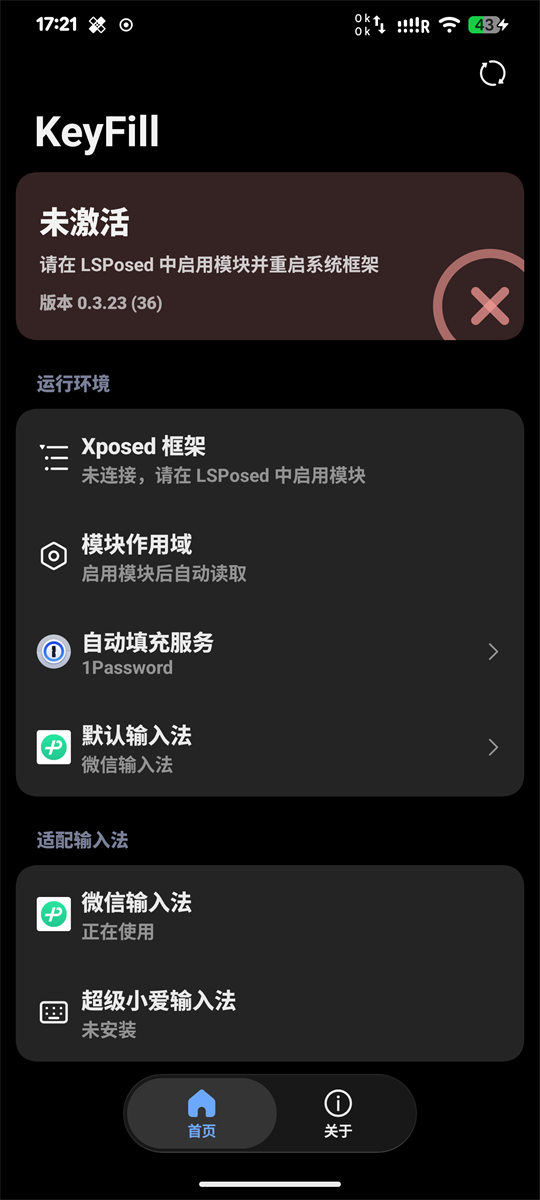
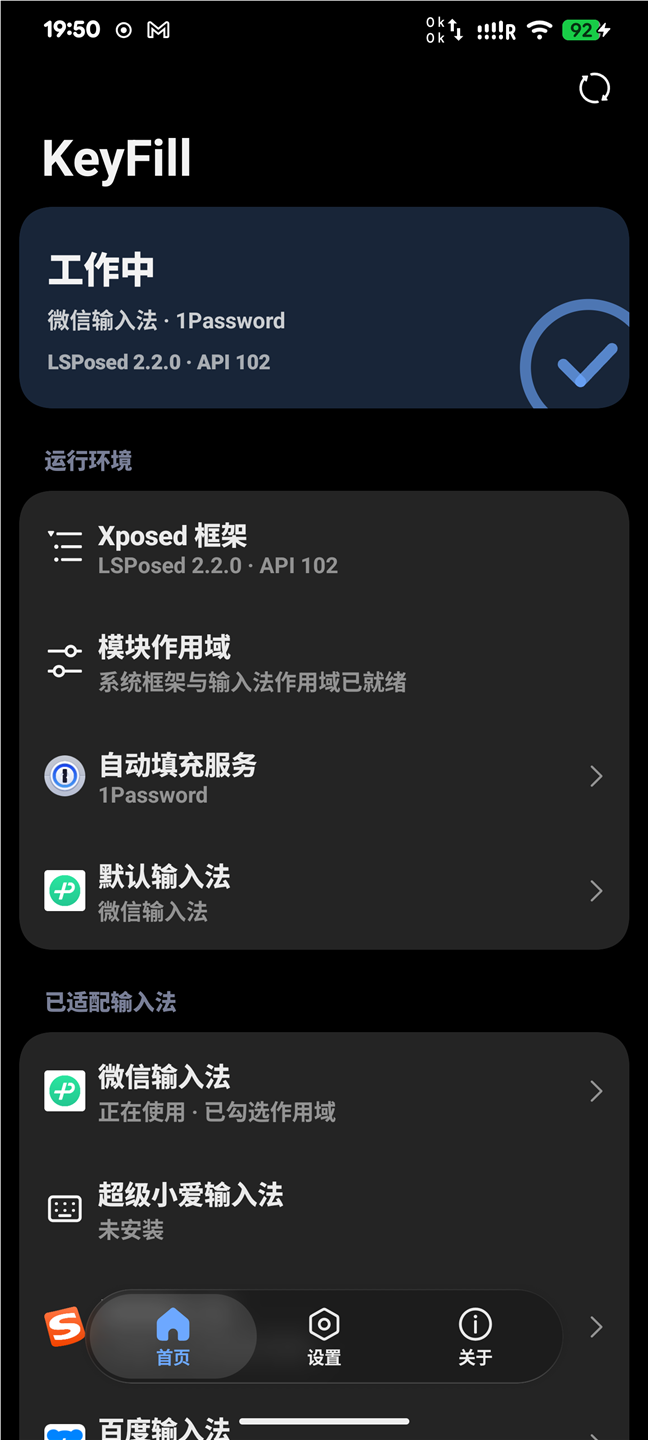
docs: refresh README, real-device screenshots, and promotional graphics

diff --git a/README.md b/README.md
@@ -1,11 +1,12 @@
 <div align="center">
-  <img src="docs/logo.svg" width="108" height="108" alt="KeyFill Logo" />
-  <h1>KeyFill</h1>
-  <p><strong>为第三方 Android 输入法接入原生键盘内联自动填充建议</strong></p>
+  <img src="docs/banner.png" width="100%" alt="KeyFill Banner" />
+  <br />
+  <br />
   <p>
     <a href="https://github.com/zrmugua/keyfill/actions/workflows/build.yml"><img src="https://github.com/zrmugua/keyfill/actions/workflows/build.yml/badge.svg" alt="Build" /></a>
-    <img src="https://img.shields.io/badge/Android-13%2B%20(API%2033)-1B5EF2" alt="Android 13+" />
+    <img src="https://img.shields.io/badge/Android-13--17%20(API%2033%2B)-1B5EF2" alt="Android 13-17" />
     <img src="https://img.shields.io/badge/Xposed-libxposed%20API%20102-3B82F6" alt="libxposed API 102" />
+    <img src="https://img.shields.io/badge/UI-Miuix%20OS4%20Liquid%20Glass-6366F1" alt="Miuix OS4" />
     <a href="https://www.coolapk.com/u/9898174"><img src="https://img.shields.io/badge/Coolapk-%40%E6%9C%A8%E7%93%9C-11B981" alt="Coolapk" /></a>
     <a href="LICENSE"><img src="https://img.shields.io/badge/License-Apache%202.0-64748B" alt="License" /></a>
   </p>
@@ -15,41 +16,69 @@
 
 ## 简介
 
-默认情况下，Android 的键盘内联自动填充（Inline Autofill Suggestions）在许多第三方输入法中未被启用或未接入渲染通道，导致 **1Password**、**Bitwarden**、**Google 密码管理工具** 等密码管理器只能退化为悬浮弹窗，无法在键盘顶部候选栏内直接点选填充。
+默认情况下，Android 的键盘内联自动填充（Inline Autofill Suggestions）在许多第三方输入法中未被启用或未接入渲染通道，导致 **1Password**、**Bitwarden**、**KeePassDX**、**Google 密码管理工具** 等密码管理器只能退化为悬浮弹窗，无法在键盘顶部候选栏内直接点选填充。
 
-**KeyFill** 是一个基于现代 **libxposed API 102** 的 LSPosed 模块，采用可扩展的 `KeyboardTarget` 适配架构，在不破坏输入法原有视觉体验的前提下为第三方输入法补齐键盘内联自动填充能力（目前已适配**微信输入法**、**超级小爱输入法**、**搜狗输入法**、**百度输入法**、**讯飞输入法**与**豆包输入法**）。
+**KeyFill** 是一个基于现代 **libxposed API 102** 的 LSPosed 模块，采用可扩展的 `KeyboardTarget` 与 `ImeToolbar` 适配架构，在不破坏输入法原有视觉体验与手感的前提下，为第三方输入法补齐原生键盘内联自动填充能力（目前已深度适配**微信输入法**、**超级小爱输入法**、**搜狗输入法**、**百度输入法**、**讯飞输入法**与**豆包输入法**）。
+
+## 实机效果一览
+
+<div align="center">
+  <img src="docs/promo-keyboards.png" width="100%" alt="6 大主流输入法实机内联自动填充效果" />
+</div>
 
 ## 功能特性
 
-- **原生内联建议接入**：在系统框架与目标输入法进程建立完整的 `InlineSuggestionsRequest` / `InlineSuggestionsResponse` 通道，支持 1Password、Bitwarden 等标准 Android 自动填充服务。
-- **输入法原生视觉融合**：
+- **原生内联建议接入**：在系统框架与目标输入法进程建立完整的 `InlineSuggestionsRequest` / `InlineSuggestionsResponse` 通道，支持 1Password、Bitwarden 等所有遵循 Android Autofill Inline API 的自动填充服务，并对 `1:1` 置顶图标与多条横向滑动建议做自适应排版。
+- **6 大输入法原生视觉融合**：
   - **微信输入法（`com.tencent.wetype`）**：保留左侧原生图标，复用原生候选栏外框，单条居中撑满、多条横向滑动并通过 `SurfaceControl` 精准裁切，打字与展开面板时自动避让。
   - **超级小爱输入法（`com.xiaomi.type`）**：对齐工具栏高度与右侧入口，兼容 HyperOS 实时模糊背板挖空融合，输入候选词时自动隐藏不抢占空间。
   - **搜狗输入法（`com.sohu.inputmethod.sogou`）**：精准识别左侧固定 Logo 边界并裁切闲置工具图标，透明融入各类自定义皮肤与双行拼音布局，展开工具箱或候选词时即时避让。
-  - **百度输入法（`com.baidu.input`）**：通过 `Canvas` 绘制级裁切无痕保留左侧原生 du 图标与完整皮肤底图，支持默认、夜间及自定义动态皮肤对比度自适应。
-  - **讯飞输入法（`com.iflytek.inputmethod`）**：同时适配 `CandidateNext` 与 `SmartLine` 双模式顶栏及 `FIGI` 主题服务，保留原生讯飞 / 飞飞助手入口并自适应皮肤明暗，输入、联想、语音及展开面板时自动隐藏。
+  - **百度输入法（`com.baidu.input`）**：通过 `Canvas` 绘制级裁切无痕保留左侧原生 `du` 图标与完整皮肤底图，支持默认、夜间及自定义动态皮肤对比度自适应。
+  - **讯飞输入法（`com.iflytek.inputmethod`）**：全面适配 `CandidateNext`、`SmartLine` 与经典 `InputGridRootView` 三模式顶栏及 `FIGI` 主题服务，保留原生讯飞 / 飞飞助手入口并自适应皮肤明暗，输入、联想词、手写及展开面板（`ImeFragmentShow`）时自动避让。
   - **豆包输入法（`com.bytedance.android.doubaoime`）**：保留左侧原生豆包工具箱入口，胶囊样式对齐原生浅色、深色与透明毛玻璃皮肤，切换子面板或悬浮键盘时联动隐藏 `SurfaceControl`。
-- **深浅色与自定义皮肤同步**：同时兼容系统深色 / 浅色模式动态重绘与输入法独立皮肤明暗检测，确保内联建议文字始终清晰可读。
-- **HyperOS 风格管理界面**：基于 **Miuix** 与液态玻璃底栏构建，接入 `libxposed:service` 实时检测模块激活状态、已注入进程状态，支持一键弹窗申请缺失的 LSPosed 作用域，以及快捷跳转系统自动填充与输入法设置。
+- **深浅色与自定义皮肤同步**：同时兼容系统深色 / 浅色模式动态重绘与输入法独立皮肤明暗检测，确保内联建议胶囊与文字始终清晰可读。
+- **Miuix OS4 液态玻璃管理端**：
+  - 接入 `libxposed:service` 实时检测模块激活状态、框架版本、已注入进程及作用域就绪状态，支持一键弹窗申请缺失作用域与快捷跳转系统自动填充 / 输入法设置。
+  - 支持**主题模式**（跟随系统 / 浅色 / 深色）、**动态取色**（跟随系统壁纸 Monet 配色、15 套精选预设色与自定义调色盘）以及**隐藏桌面图标**。
+  - 内置**自动填充测试**液态玻璃弹窗，无需切换外部应用即可直接模拟账号 / 密码输入框验证键盘内联建议条。
+  - 采用定制 AGSL 极光着色器打造 HyperOS 风格「关于」页与设备硬件卡片。
 
-## 界面预览
+## 管理端预览
 
-| 首页（深色） | 关于页（深色） | 首页（浅色） | 关于页（浅色） |
-| :---: | :---: | :---: | :---: |
-| <img src="docs/home-dark.png" width="200" alt="Home Dark" /> | <img src="docs/about-dark.png" width="200" alt="About Dark" /> | <img src="docs/home-light.png" width="200" alt="Home Light" /> | <img src="docs/about-light.png" width="200" alt="About Light" /> |
+<div align="center">
+  <img src="docs/promo-manager.png" width="100%" alt="KeyFill Miuix OS4 液态玻璃管理端" />
+</div>
+
+<details>
+<summary>展开查看全部单页实机截图（深色 / 浅色）</summary>
+
+<br />
+
+| 首页（深色） | 设置（深色） | 关于（深色） |
+| :---: | :---: | :---: |
+| <img src="docs/home-dark.png" width="220" alt="Home Dark" /> | <img src="docs/settings-dark.png" width="220" alt="Settings Dark" /> | <img src="docs/about-dark.png" width="220" alt="About Dark" /> |
+
+| 首页（浅色） | 设置（浅色） | 关于（浅色） |
+| :---: | :---: | :---: |
+| <img src="docs/home-light.png" width="220" alt="Home Light" /> | <img src="docs/settings-light.png" width="220" alt="Settings Light" /> | <img src="docs/about-light.png" width="220" alt="About Light" /> |
+
+</details>
 
 ## 环境要求与支持列表
 
-- **系统版本**：Android 13+（API 33+，兼容 HyperOS 1 / 2 / 3 及原生 AOSP）
+- **系统版本**：Android 13 – 17（API 33+，兼容 HyperOS 1 / 2 / 3 / 4 及原生 AOSP）
 - **Xposed 框架**：支持 **libxposed API 102** 的现代框架（如新版 LSPosed）
-- **适配输入法**：
-  - 微信输入法（`com.tencent.wetype`）
-  - 超级小爱输入法（`com.xiaomi.type`）
-  - 搜狗输入法（`com.sohu.inputmethod.sogou`）
-  - 百度输入法（`com.baidu.input`）
-  - 讯飞输入法（`com.iflytek.inputmethod`）
-  - 豆包输入法（`com.bytedance.android.doubaoime`）
-- **适配密码管理器**：1Password、Bitwarden、KeePassDX、Proton Pass 等所有遵循 Android Autofill Inline API 的自动填充服务
+- **适配密码管理器**：1Password、Bitwarden、KeePassDX、Proton Pass、Google 密码管理工具等所有遵循 Android Autofill Inline API 的自动填充服务
+- **已适配输入法**：
+
+| 输入法 | 包名 | 适配特性 |
+| :--- | :--- | :--- |
+| 微信输入法 | `com.tencent.wetype` | 原生候选栏复用 · `SurfaceControl` 精准裁切 |
+| 超级小爱输入法 | `com.xiaomi.type` | HyperOS 实时模糊背板融合 · 工具栏对齐 |
+| 搜狗输入法 | `com.sohu.inputmethod.sogou` | 左侧 Logo 边界识别 · 自定义皮肤与双行布局融合 |
+| 百度输入法 | `com.baidu.input` | `Canvas` 级皮肤裁切保留 `du` 标 · 动态明暗对比 |
+| 讯飞输入法 | `com.iflytek.inputmethod` | 经典 / 智慧栏三模式顶栏 · `FIGI` 主题与面板避让 |
+| 豆包输入法 | `com.bytedance.android.doubaoime` | 毛玻璃与深浅皮肤胶囊对齐 · 悬浮键盘联动 |
 
 ## 安装与配置步骤
 
@@ -57,32 +86,40 @@
 2. 打开 **LSPosed 管理器**，启用 **KeyFill** 模块，勾选以下作用域：
    - **系统框架**（`android`）—— **必选**（用于宣告输入法内联能力并同步深浅色远程渲染样式）
    - 你正在使用的已适配输入法（微信、超级小爱、搜狗、百度、讯飞或豆包输入法）
-   > 也可以只先在 LSPosed 中开启模块开关，随后打开 KeyFill 应用点击「模块作用域」一键弹窗申请所需作用域。
+   > 也可以先仅在 LSPosed 中开启模块开关，随后打开 KeyFill 首页点击「模块作用域」一键弹窗申请所需作用域。
 3. **重启系统**（或软重启系统框架）并确保目标输入法进程已重新加载。
-4. 在系统设置中确认已将自动填充服务设为你的密码管理器（如 1Password / Bitwarden），并将默认输入法切换为已适配的输入法；打开 **KeyFill** 首页看到 **「工作中」** 即表示全部就绪。
+4. 在系统设置中确认已将自动填充服务设为你的密码管理器（如 1Password / Bitwarden），并将默认输入法切换为已适配的输入法；打开 **KeyFill** 首页看到 **「工作中」** 即表示全部就绪，随后可在「设置 → 自动填充测试」中直接验证效果。
+
+> [!TIP]
+> 在 HyperOS 等深度定制系统上，若密码管理器偶发无法弹出自动填充建议，建议在系统省电策略中将密码管理器设为 **「无限制」** 并开启自启动，避免系统后台冻结自动填充服务进程。
 
 ## 本地构建
 
-请确保本地已安装 **JDK 21** 与 **Android SDK**，随后在项目根目录执行：
+请确保本地已安装 **JDK 17+**（或 Android Studio 内置 JBR）与 **Android SDK**，随后在项目根目录执行：
 
 ```bash
 # Linux / macOS
 ./gradlew assembleDebug lintDebug
+./gradlew assembleRelease
 
 # Windows PowerShell
 .\gradlew.bat assembleDebug lintDebug
+.\gradlew.bat assembleRelease
 ```
 
-构建产物位于 `app/build/outputs/apk/debug/app-debug.apk`。
+- Debug 产物位于 `app/build/outputs/apk/debug/app-debug.apk`
+- Release（R8 混淆优化）产物位于 `app/build/outputs/apk/release/app-release.apk`
 
 ## 工作原理简述
 
 1. **`system_server` 能力开启与主题重绘**：
-   - `AutofillModule` 拦截 `InputMethodInfo` 构造过程，为目标输入法开启 `mInlineSuggestionsEnabled`。
-   - `InlineThemeRenderer` 在 `RemoteInlineSuggestionRenderService` 侧按当前系统深浅色切换 `InlinePresentationSpec` 样式束，并在主题变化时使旧 `RemoteInlineSuggestionUi` 缓存失效以触发实时重绘。
+   - `AutofillModule` 拦截 `InputMethodInfo` 构造过程，为 `KeyboardTarget` 中登记的目标输入法开启 `mInlineSuggestionsEnabled`。
+   - `InlineThemeRenderer` 在 `RemoteInlineSuggestionRenderService` 侧按当前系统与皮肤明暗切换 `InlinePresentationSpec` 样式束，并在主题变化时使旧 `RemoteInlineSuggestionUi` 缓存失效以触发实时重绘。
 2. **输入法端会话桥接与视图承载**：
    - 在目标输入法的 `InputMethodService` 创建时注入 `mInlineSuggestionSessionController` 的请求与响应回调。
-   - `KeyboardInlineUi` 与 `XiaoAiToolbar` 将返回的 `InlineSuggestion` 远程 Surface 挂载至候选栏区域，并通过 `SurfaceControl` 事务与 `ViewOutlineProvider` 处理滑动裁切、输入避让及模糊背景透出。
+   - `KeyboardInlineUi` 与各输入法专属 `ImeToolbar` 适配器（`XiaoAiToolbar`、`SogouToolbar`、`BaiduToolbar`、`IflytekToolbar`、`DoubaoToolbar`）将返回的 `InlineSuggestion` 远程 Surface 无痕挂载至顶栏区域，并通过 `SurfaceControl` 事务、`Canvas` 裁切与 `ViewOutlineProvider` 处理滑动裁切、输入避让及模糊背景透出。
+3. **管理端实时状态与可视化配置**：
+   - `XposedServiceState` 基于 `libxposed:service` 监听框架连接、作用域与进程注入状态；`ManagerUi` 与 `AboutBgEffect` 基于 **Miuix OS4** 液态玻璃组件与 AGSL 极光着色器构建完整交互体验。
 
 ## 开源致谢
 
